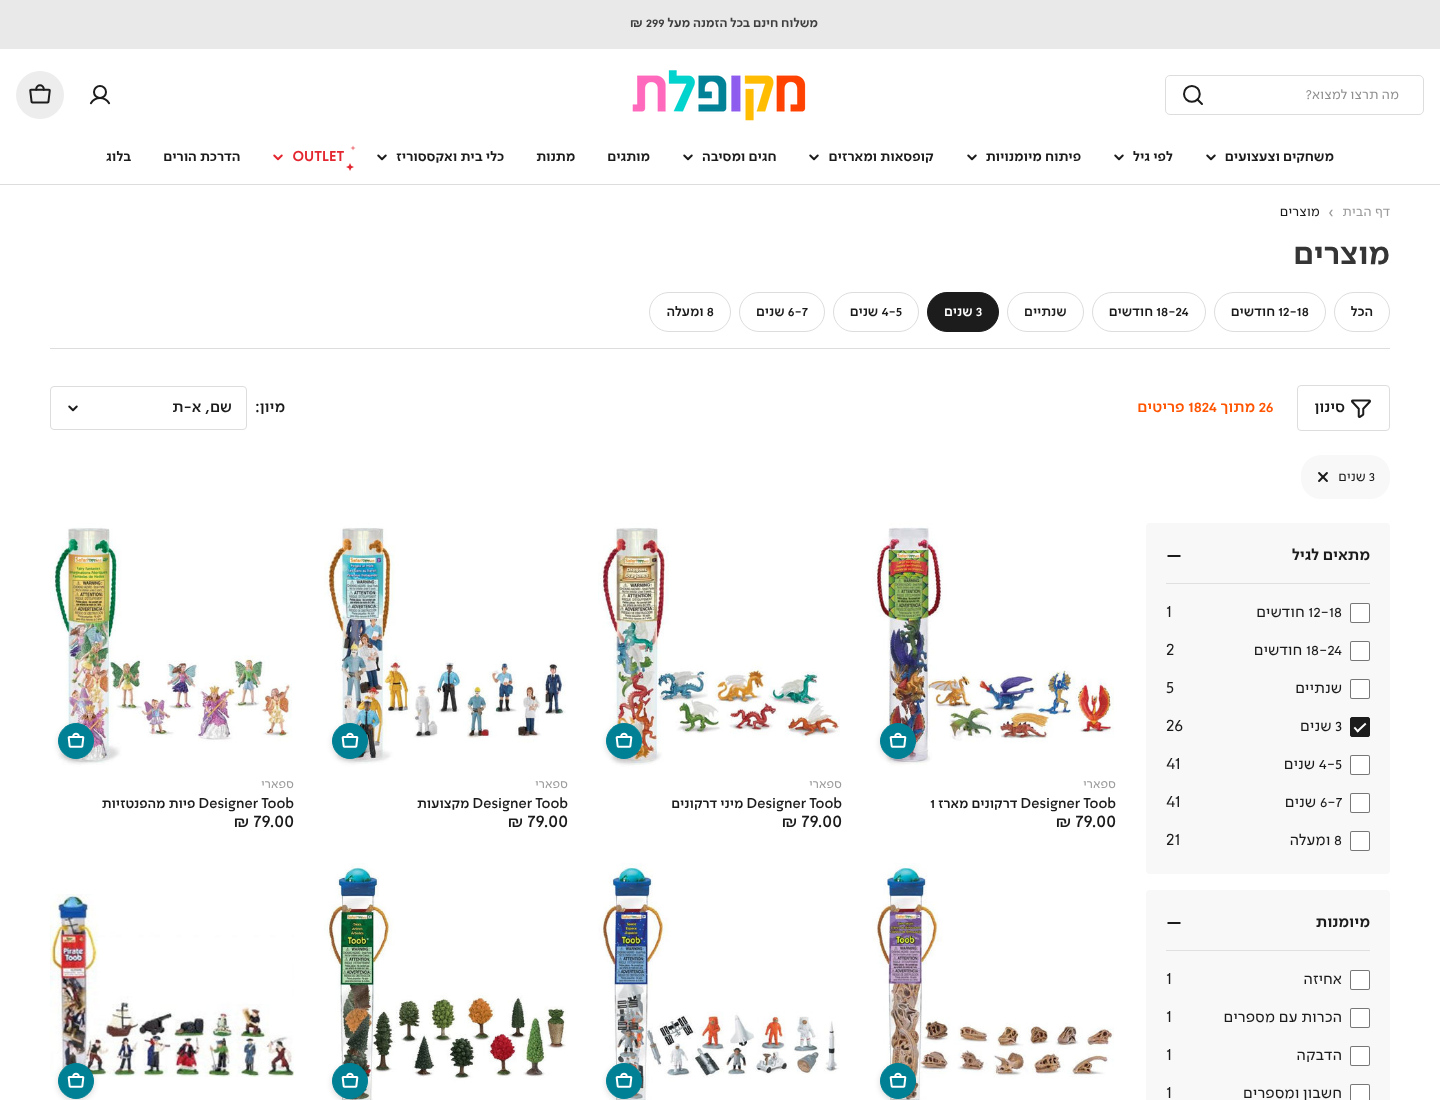
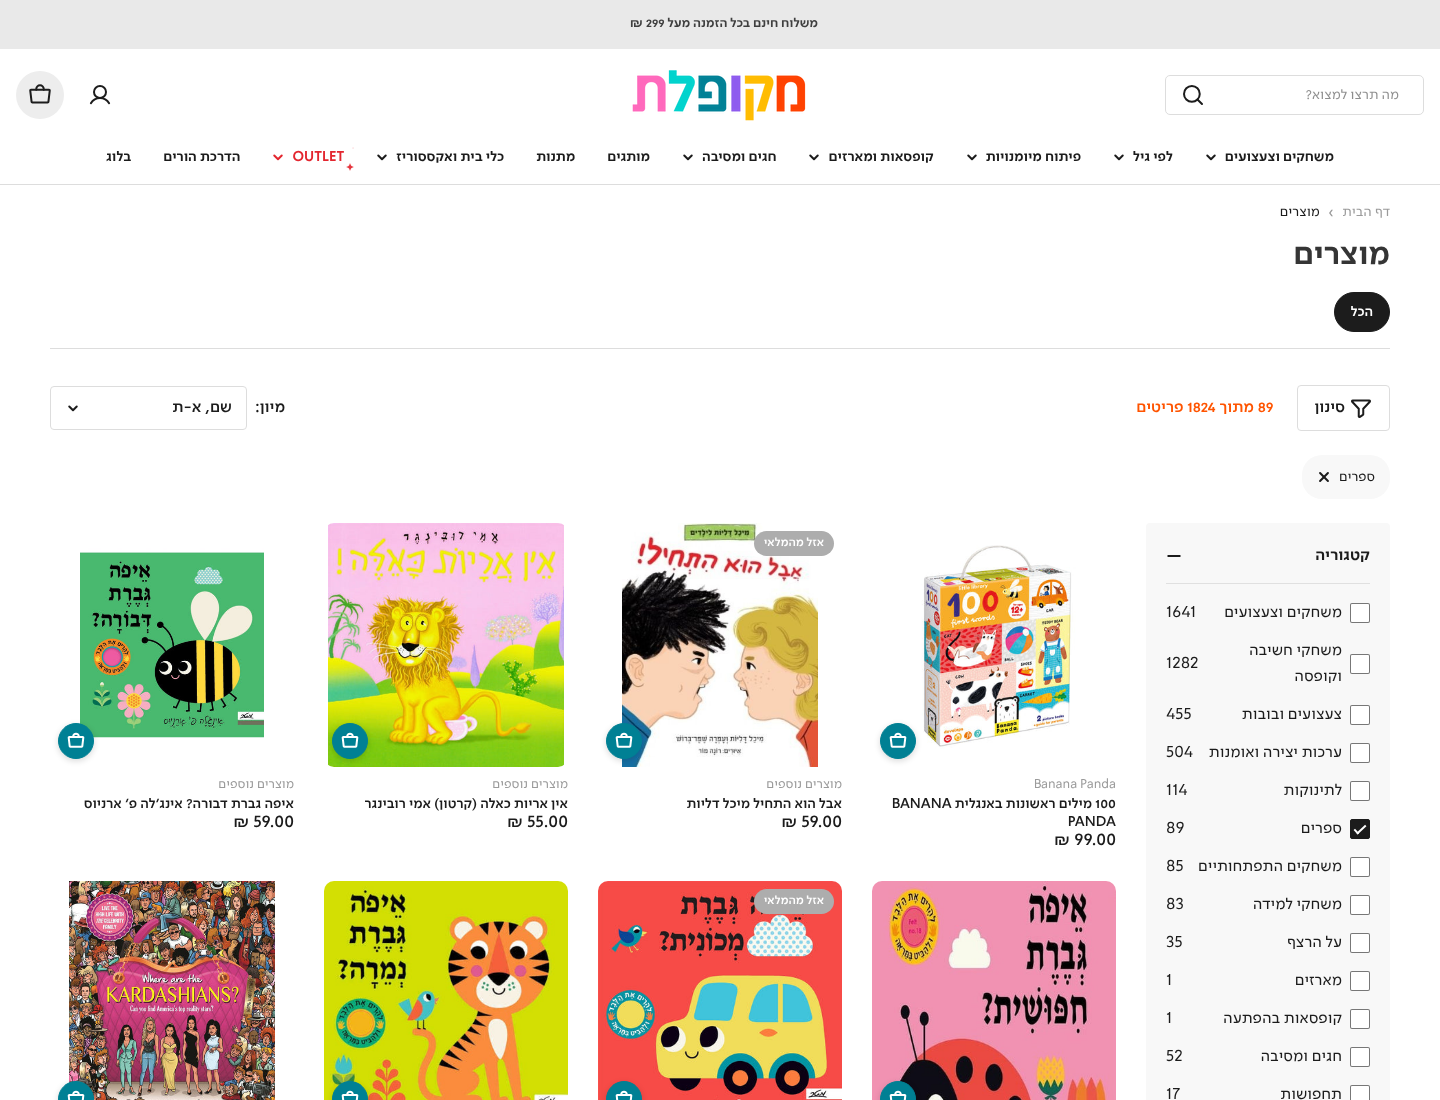
docs: collection package 5 verified live with the category filter
Claude-Session: https://claude.ai/code/session_01QfBjERy37Re1AYHdyrQKXr

diff --git a/docs/progress.md b/docs/progress.md
@@ -499,3 +499,6 @@ continues in a NEW session. Starting point for that session:
   `expand_filter_groups` switched to the merchant's label "מתאים לגיל". Verified live at 1440/390
   with `?filter.p.m.custom.age_range=3+שנים`: chips active state, sidebar checkbox in sync, 26 of
   1,824 products (`docs/screenshots/collection-pkg5/live/`).
+  "קטגוריה" filter added by the merchant: 23 values live, first group, "זמינות" removed; final
+  order קטגוריה / מתאים לגיל / מיומנות / מותג / מחיר in sidebar and drawer; category=ספרים → 89
+  products. Collection package 5 complete.
